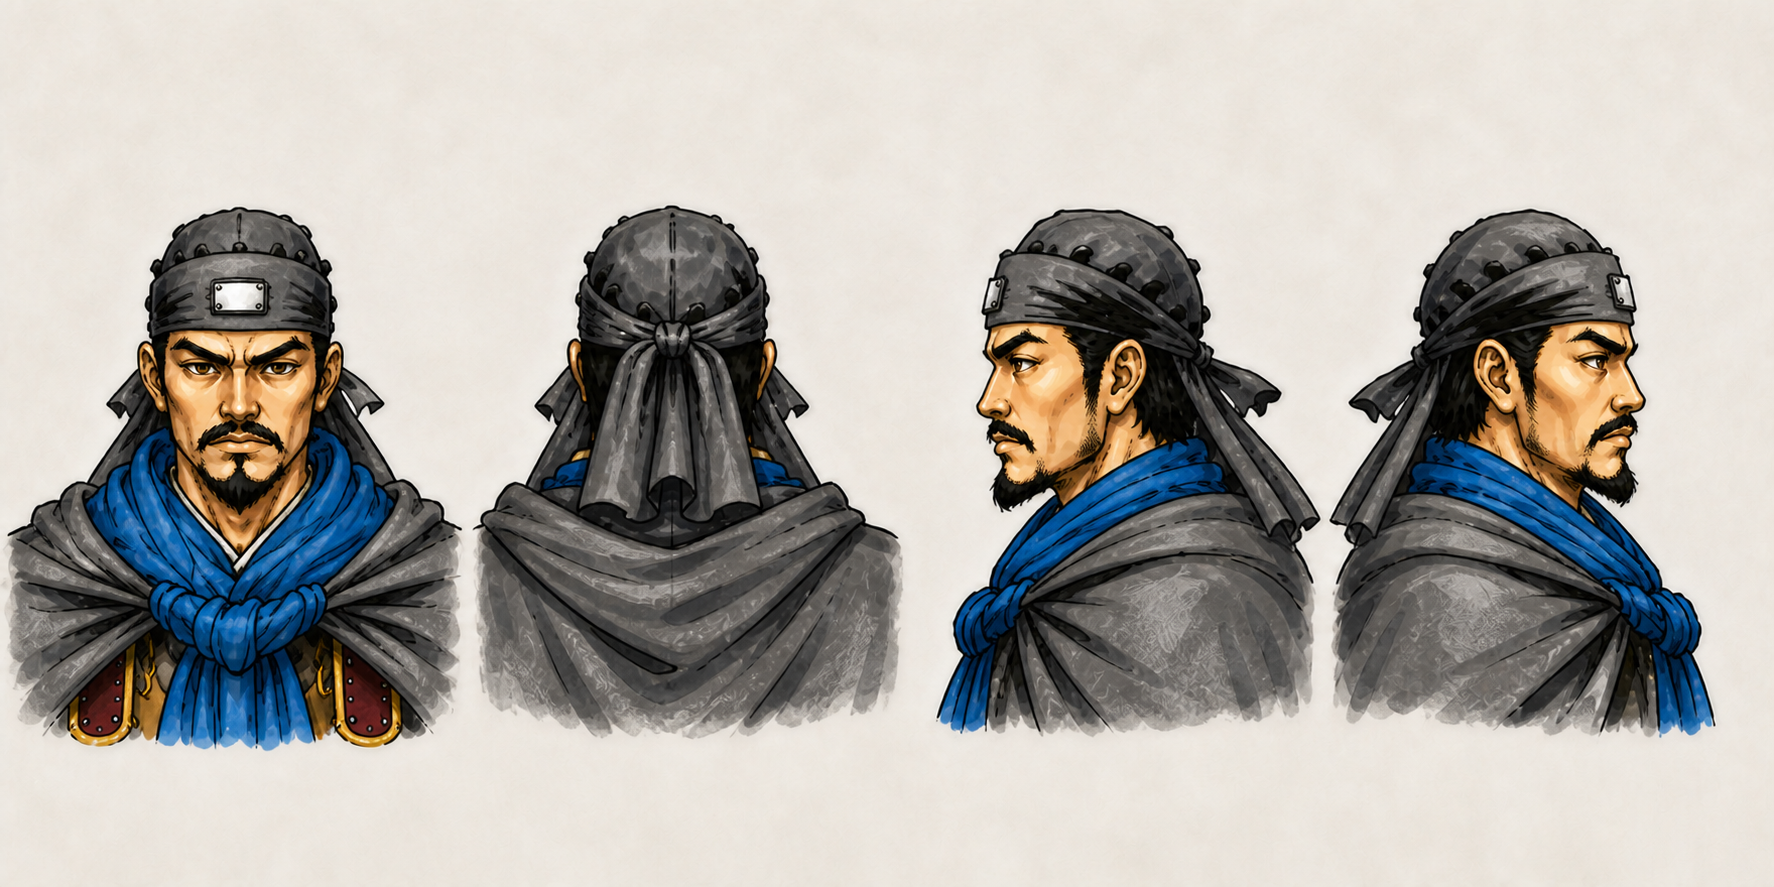
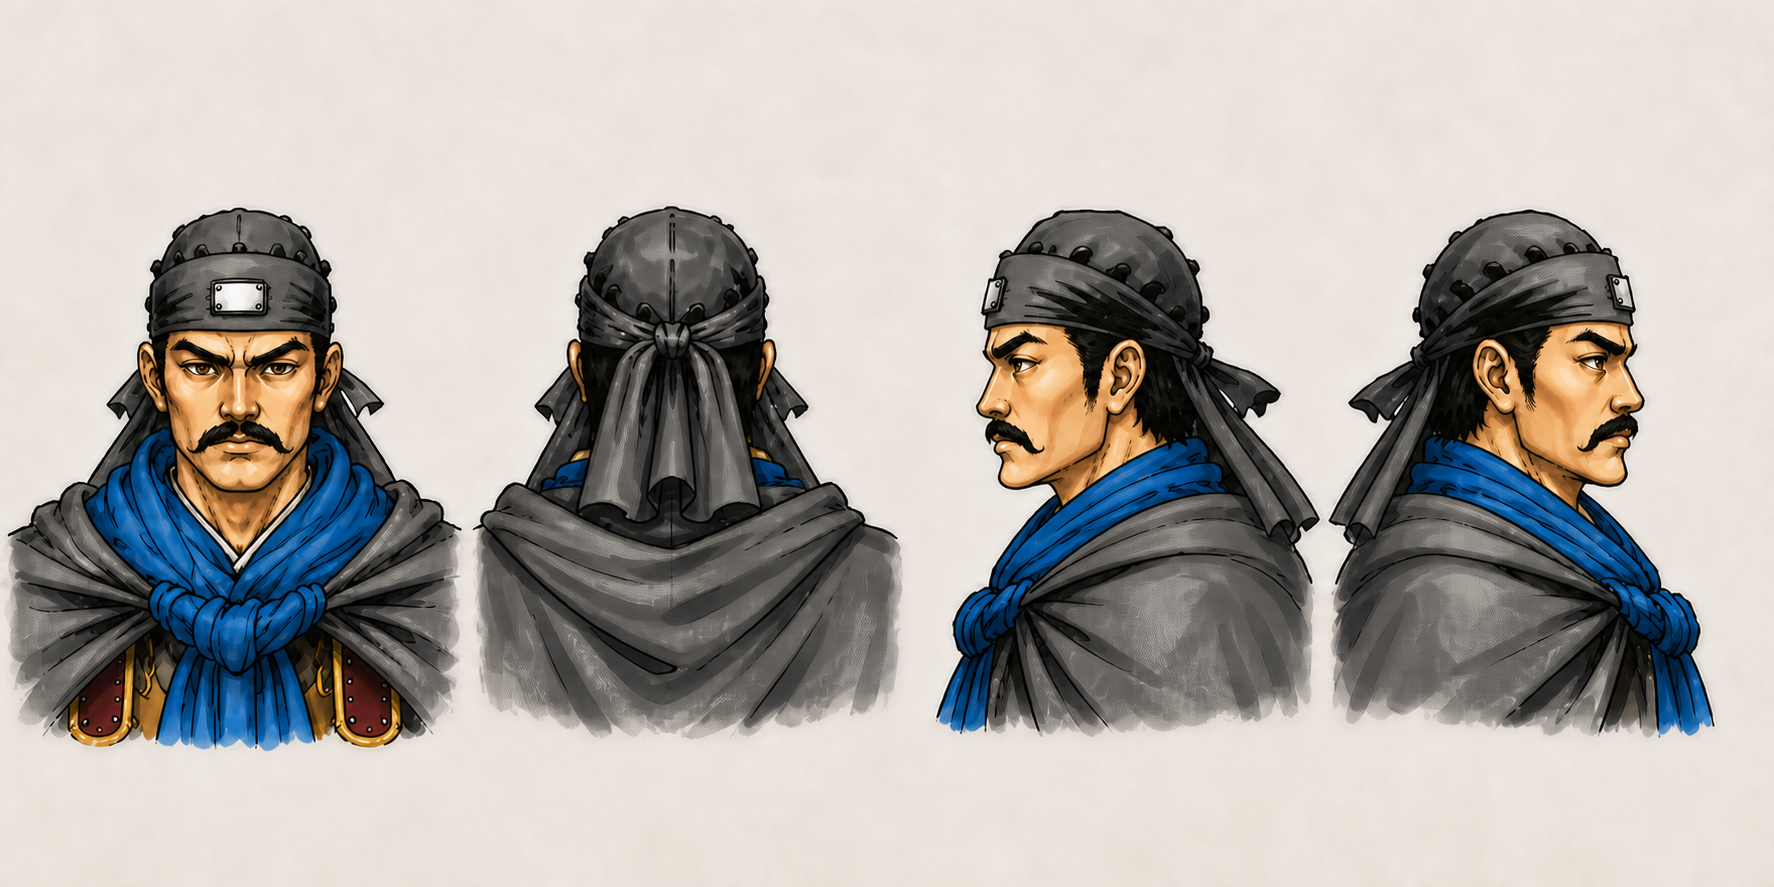
fix(角色设定): 移除 100 号角色下巴胡须
根据原卡修正面部毛发规格与生成提示，只保留上唇浓短髭。\n\n同步更新头部四视图、中立六视图和原画姿态六视图，并保留返修前版本。

diff --git a/character-model-sheets/characters/100/review-notes.md b/character-model-sheets/characters/100/review-notes.md
@@ -30,6 +30,7 @@
 
 - [x] 已生成 `head-sheet.png`，严格按正面、纯后脑、角色自身左侧面、角色自身右侧面排列。
 - [x] 四张保持同一身份、颅骨体积、发型／头戴、胡须、颈部尺度、裁切、光照和固定复古手绘画风。
+- [x] 2026-08-22 面部毛发返修：只保留上唇浓短髭；正面、左右侧面及所有可见转面中的下唇下方、下巴和下颌均无胡须。
 - [x] 纯后脑没有出现面部；左右侧面来自角色不同解剖侧，未用表情变化代替视角变化。
 - [x] 原图未展示的后脑与连接结构继续按规格中的 `inferred`／`unknown` 克制处理，不宣称为原作事实。
 - 状态保持 `generated`，等待用户批准。
